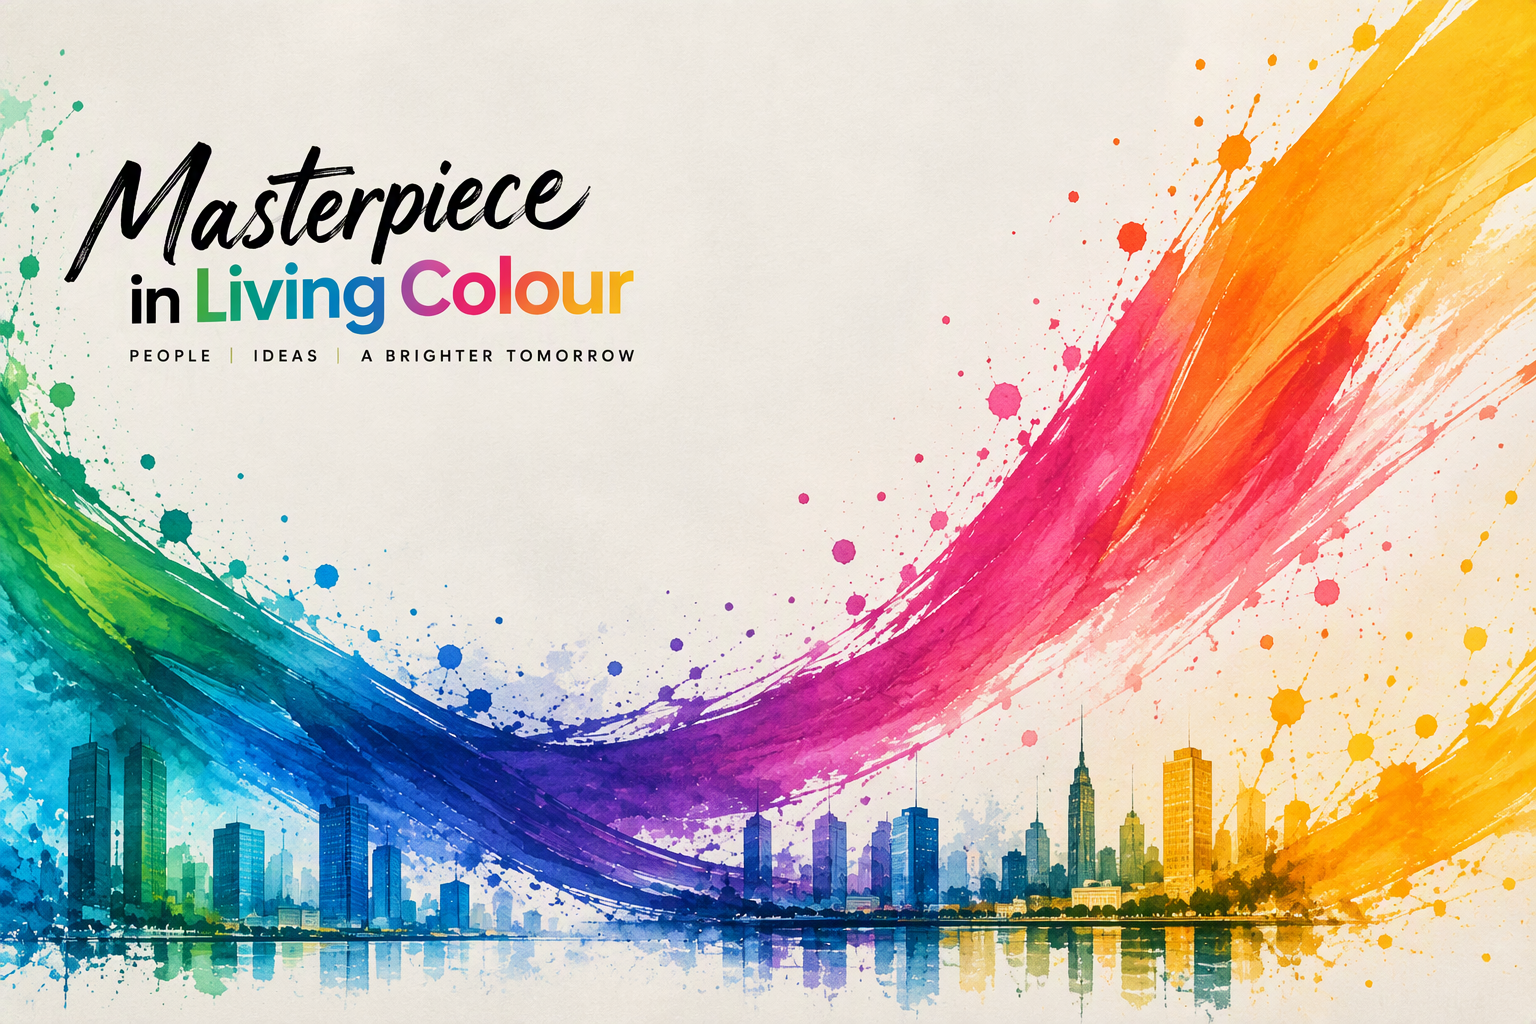
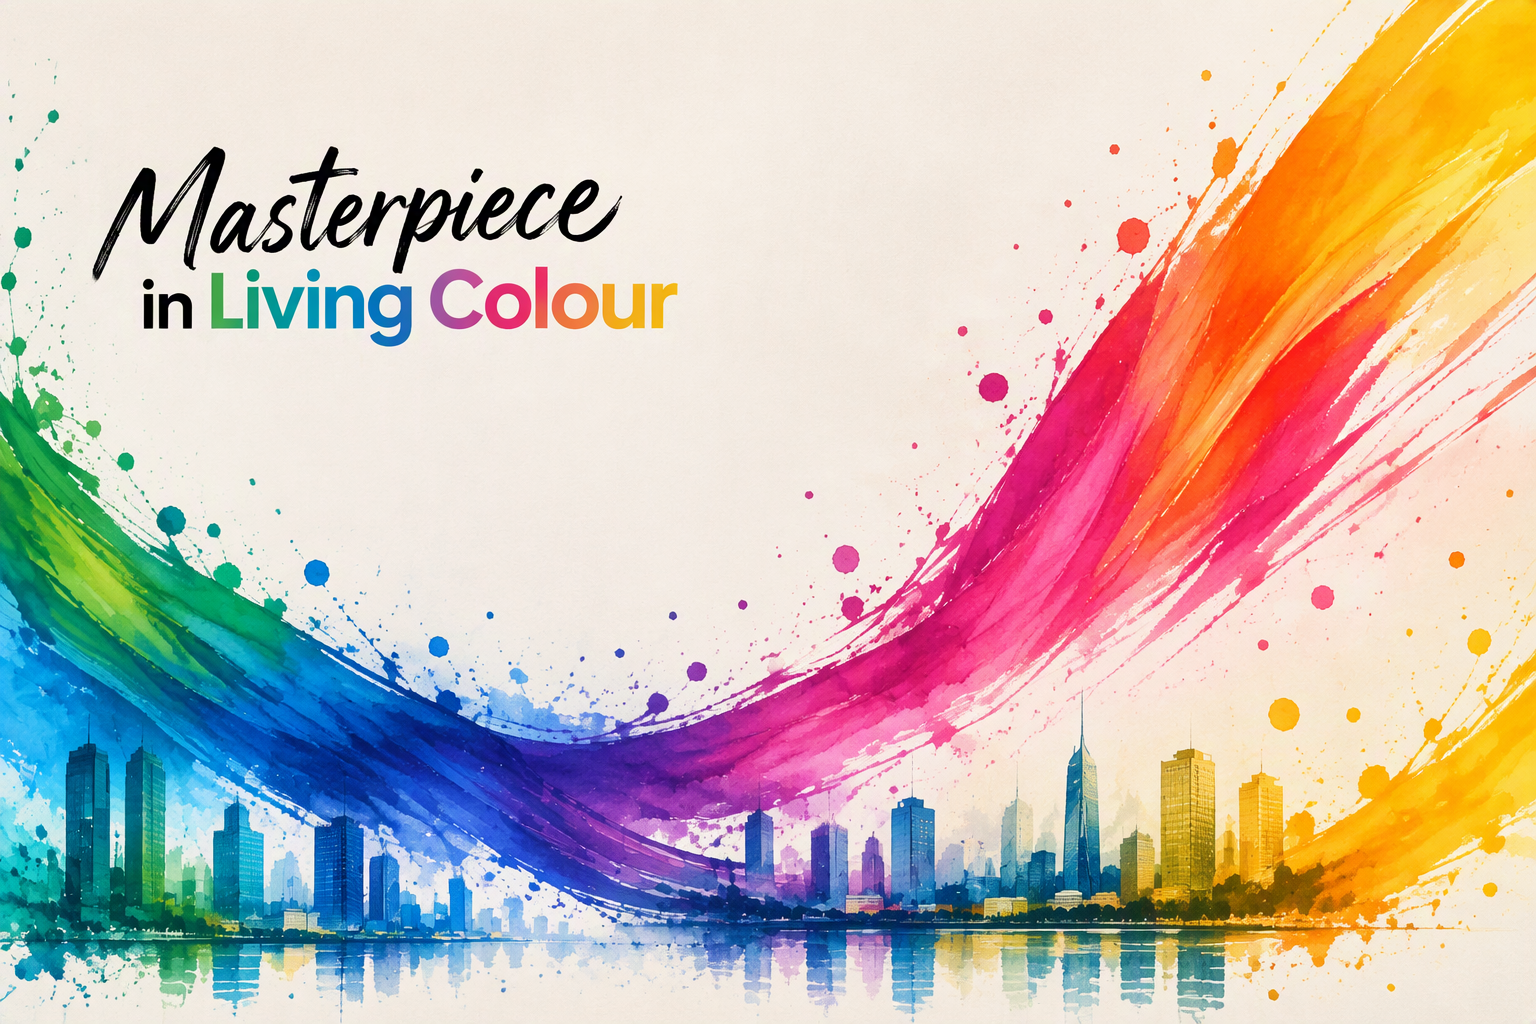
chore: update background.jpg, remove unused footer-city.png, add handoffs

diff --git a/ψ/inbox/handoff/2026-11-23_16-45_career-level-lucky-draw.md b/ψ/inbox/handoff/2026-11-23_16-45_career-level-lucky-draw.md
@@ -1,0 +1,36 @@
+# Handoff: Career Level + Lucky Draw / Unique Scans export (2026-11-23)
+
+Repo: `C:\Workspace\Projects\trackattendance-latest` (the correct, current repo; `..\trackattendance-frontend` is an older checkout of the same GitHub remote — don't edit it).
+Nothing is committed. See `git diff` for the code; this doc only records what the diff doesn't.
+
+## Decisions (LOCKED, from the user)
+- New roster column `Career Level` (numeric 0–9 in `data/employee.xlsx`). Optional column, stored as a normalised string.
+- **Lucky Draw** sheet: one row per rostered attendee (first scan overall), **no Email**, excludes Career Level **9 (Partner)** and **0 (Intern)**.
+- **Unique Scans (Per Day)** sheet: one row per employee per calendar day, first scan of that day. Raw duplicates stay in "All Scans".
+- Only the **Dashboard report** (`dashboard.py` `export_to_excel`, built from cloud scans across all stations) is changed. Local `Checkins_*.xlsx` export (`attendance.py` `export_scans`) deliberately untouched.
+- No "By Career Level" breakdown.
+- Old "Deduplicated Attendance" sheet **removed** (name unclear). Consequence: the cross-station-duplicate flag no longer exists anywhere; offered a "Stations Scanned" column on Unique Scans (Per Day) — user hasn't answered.
+
+## Done
+- `database.py`: `career_level` on `EmployeeRecord`, `employees` table (ALTER migration), insert/load.
+- `attendance.py`: roster reads Career Level; `_normalize_career_level`; `ROSTER_IMPORT_VERSION = "2"` stored in `roster_meta.import_version` so an unchanged roster file is re-imported once after upgrade (found by testing: without it existing DBs kept blank Career Level).
+- `dashboard.py`: Career Level column in All Scans / Not Yet Scanned; new sheets above via `_write_simple_sheet`; `LUCKY_DRAW_EXCLUDED_LEVELS`.
+- `tests/test_dashboard.py`: new test for career level/per-day/lucky draw; removed cross-station test; unmatched-scan test retargeted.
+- `docs/API.md`, `docs/SYNC.md` references updated (`CHANGELOG.md`/`README.md` history left as-is).
+
+## Verified
+- `pytest tests/test_dashboard.py tests/test_roster_bootstrap_corrupt_file.py tests/test_bu_export.py tests/test_excel_export.py tests/test_search_employee_prefix_priority.py` — pass.
+- Test export from a copy of the real scanned DB (59 scans, station TEST, 58 unique employees): Unique per day 58, Lucky Draw 47 (58 − 5 level 9 − 6 level 0). Output: `exports/_test_export_career_level.xlsx` (gitignored; a copy also sits in `..\trackattendance-frontend\exports`, safe to delete).
+
+## Not done / open
+- Full `pytest tests` run errors in pytest output capture (unrelated to the change); only the files above were run. Typecheck/lint not run.
+- Cloud API was mocked in the test export; real multi-station / multi-day output unverified.
+- No commit. Not rebuilt/installed (`build.bat` installs to `C:\TrackAttendance`).
+- Not ported to the saas fork (`bash scripts/sync-to-saas.sh`) — only if the user wants.
+- Docs: consider adding Career Level / new sheets to `CHANGELOG.md`/`README.md` and a roster-column note in `docs/`.
+- Caveat to remember: Monitoring Mode (Admin → Cloud Sync, `config.CLOUD_READ_ONLY`) blocks all uploads; stations with it on won't appear in the cloud-built Dashboard report.
+
+## Suggested skills
+- `code-review` (or `system-review`) on the diff before committing.
+- `pyinstaller-windows-deployment` if rebuilding/installing the exe.
+- `oracle-skills:rrr` for the session retrospective after commit.

diff --git a/ψ/inbox/handoff/2026-11-23_12-00_prompt-audit-and-immediate-sync-commit.md b/ψ/inbox/handoff/2026-11-23_12-00_prompt-audit-and-immediate-sync-commit.md
@@ -1,0 +1,39 @@
+# Handoff: prompt audit + pending-work commit (2026-11-23)
+
+## What happened this session
+1. Ran `/claude-api prompt-audit` on the Claude Code config that loads in this project
+   (project `CLAUDE.md`/`AGENTS.md`, `~/.claude/CLAUDE.md`, `~/.claude/agents/impeccable-*.md`,
+   `~/.claude/skills/impeccable/SKILL.md`). Target model: Claude Sonnet 5.5.
+2. Applied the audit's three stale-fact fixes and merged them to `main` (commit `e05a467`):
+   - 5 utility-script paths `scripts/*.py` -> `tests/*.py` (moved in `09fb0e5`)
+   - `LOG_LEVEL` -> `LOGGING_LEVEL` (what `config.py:222` reads), plus `DUPLICATE_BADGE_ALERT_DURATION_MS`
+   - `scripts/` description now says it holds only `sync-to-saas.sh`
+3. Committed the previously pending work and pushed to `main` (`e05a467..4555895`), as three commits:
+   - `feat`: optional immediate per-scan cloud upload (`IMMEDIATE_SYNC_ENABLED`, off by default; admin "Immediate Write" toggle;
+     `AttendanceService.set_sync_service`, `SyncService.sync_single_scan`, `tests/test_immediate_sync.py`) + version label moved under Dashboard title
+   - `build`: `build.bat` now installs to `C:\TrackAttendance` (`nodeploy` skips)
+   - `docs`: `ψ/memory` learnings + 2026-09 retrospective; `.gitignore` for `.env.bak*`, `.omc/`, `.omx/`, `logs/cloudrun-*.json`
+
+See `git log` / `git show` for details; nothing here duplicates the diffs.
+
+## State
+- Branch: `main`, in sync with `origin/main`.
+- Left uncommitted on purpose: `.claude/settings.local.json` (local permissions rule only).
+- Leftover branch `docs/fix-stale-script-paths` exists locally and on `origin` (already merged, safe to delete once the user agrees).
+- `.env.bak*` files in the repo root are now ignored but still on disk and may hold secrets; user should move/delete them.
+
+## Not verified / open
+- I did NOT run the app, `tests/test_immediate_sync.py`, or any other tests this session; the immediate-sync feature was committed after reading the diffs only.
+- Immediate-write relies on the idle batch sync to mark rows `synced` later (same idempotency key); worth an end-to-end check against the cloud API before an event.
+- Audit flags with no edit made: `AGENTS.md` and `CLAUDE.md` have drifted (AGENTS has `audio.py`/`assets/`; CLAUDE has Cloud API, saas fork, duplicate-detection) — decide whether AGENTS.md becomes a pointer to CLAUDE.md.
+  `.scratchpad/build-v2.1.10/` holds frozen copies of both files (gitignored; kept per scratch convention).
+- The other 105 `~/.claude/skills/*` (symlinks into `C:\Workspace\AI\skill-hub`) and plugin skills were not audited line by line.
+
+## Suggested skills for the next agent
+- `run` — launch the kiosk app and confirm immediate-sync/toggle work in the real app.
+- `diagnosing-bugs` — if the immediate-write path misbehaves (queue full, coordinator paused, duplicate uploads).
+- `code-review` — review the `feat` commit (`attendance.py`, `sync.py`, `main.py`) before the next release.
+- `claude-api` with `prompt-audit` — re-run the audit after further CLAUDE.md edits or a model change.
+
+## Reminders from project CLAUDE.md
+Use `.venv\Scripts\python.exe` (system Python lacks PyQt6). Bugfixes to shared code can be ported with `bash scripts/sync-to-saas.sh`.
